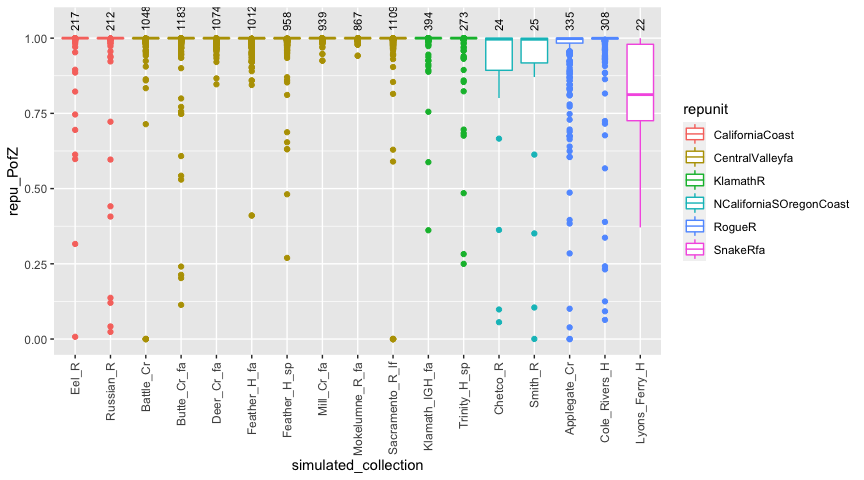
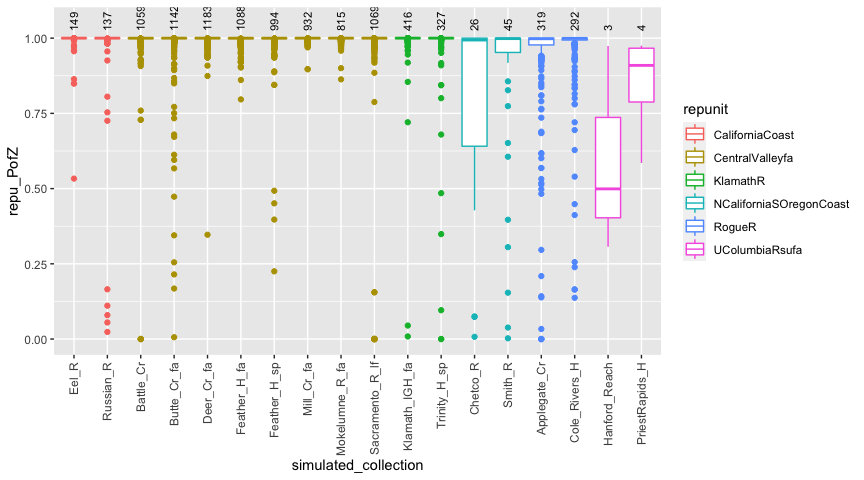
Added a CRAN badge to the README.Rmd and re-knit

diff --git a/README.md b/README.md
@@ -50,11 +50,11 @@ rubias — genetic stock identification (GSI) in the tidyverse
 
 <!-- README.md is generated from README.Rmd. Please edit that file -->
 
-<!--
-[![DOI](https://zenodo.org/badge/63456523.svg)](https://zenodo.org/badge/latestdoi/63456523)
-[![Project Status: Active – The project has reached a stable, usable state and is being actively developed.](http://www.repostatus.org/badges/latest/active.svg)](http://www.repostatus.org/#active)
-[![CRAN_Status_Badge](http://www.r-pkg.org/badges/version/rubias)](https://cran.r-project.org/package=rubias)
--->
+<!-- badges: start -->
+
+[![CRAN
+status](https://www.r-pkg.org/badges/version/rubias)](https://CRAN.R-project.org/package=rubias)
+<!-- badges: end -->
 
 This is an R package for performing genetic stock identification (GSI)
 and associated tasks. Additionally, it includes a method designed to
@@ -371,20 +371,20 @@ the default options:
 mix_est <- infer_mixture(reference = chinook, 
                          mixture = chinook_mix, 
                          gen_start_col = 5)
-#> Collating data; compiling reference allele frequencies, etc.   time: 1.66 seconds
-#> Computing reference locus specific means and variances for computing mixture z-scores   time: 0.26 seconds
+#> Collating data; compiling reference allele frequencies, etc.   time: 1.55 seconds
+#> Computing reference locus specific means and variances for computing mixture z-scores   time: 0.23 seconds
 #> Working on mixture collection: rec2 with 772 individuals
-#>   calculating log-likelihoods of the mixture individuals.   time: 0.13 seconds
-#>   performing 2000 total sweeps, 100 of which are burn-in and will not be used in computing averages in method "MCMC"   time: 0.69 seconds
-#>   tidying output into a tibble.   time: 0.26 seconds
+#>   calculating log-likelihoods of the mixture individuals.   time: 0.12 seconds
+#>   performing 2000 total sweeps, 100 of which are burn-in and will not be used in computing averages in method "MCMC"   time: 0.62 seconds
+#>   tidying output into a tibble.   time: 0.24 seconds
 #> Working on mixture collection: rec1 with 743 individuals
-#>   calculating log-likelihoods of the mixture individuals.   time: 0.11 seconds
+#>   calculating log-likelihoods of the mixture individuals.   time: 0.12 seconds
 #>   performing 2000 total sweeps, 100 of which are burn-in and will not be used in computing averages in method "MCMC"   time: 0.61 seconds
-#>   tidying output into a tibble.   time: 0.26 seconds
+#>   tidying output into a tibble.   time: 0.27 seconds
 #> Working on mixture collection: rec3 with 741 individuals
 #>   calculating log-likelihoods of the mixture individuals.   time: 0.11 seconds
-#>   performing 2000 total sweeps, 100 of which are burn-in and will not be used in computing averages in method "MCMC"   time: 0.61 seconds
-#>   tidying output into a tibble.   time: 0.33 seconds
+#>   performing 2000 total sweeps, 100 of which are burn-in and will not be used in computing averages in method "MCMC"   time: 0.60 seconds
+#>   tidying output into a tibble.   time: 0.28 seconds
 ```
 
 The result comes back as a list of four tidy data frames:
@@ -418,23 +418,23 @@ lapply(mix_est, head)
 #> # A tibble: 6 x 4
 #>   mixture_collection repunit         collection                  pi
 #>   <chr>              <chr>           <chr>                    <dbl>
-#> 1 rec2               CentralValleyfa Feather_H_sp         0.0755   
-#> 2 rec2               CentralValleysp Butte_Cr_Sp          0.0000337
-#> 3 rec2               CentralValleysp Mill_Cr_sp           0.0000301
-#> 4 rec2               CentralValleysp Deer_Cr_sp           0.0000312
-#> 5 rec2               CentralValleysp UpperSacramento_R_sp 0.000393 
+#> 1 rec2               CentralValleyfa Feather_H_sp         0.0746   
+#> 2 rec2               CentralValleysp Butte_Cr_Sp          0.0000462
+#> 3 rec2               CentralValleysp Mill_Cr_sp           0.0000480
+#> 4 rec2               CentralValleysp Deer_Cr_sp           0.0000827
+#> 5 rec2               CentralValleysp UpperSacramento_R_sp 0.000358 
 #> 6 rec2               CentralValleyfa Feather_H_fa         0.158    
 #> 
 #> $indiv_posteriors
 #> # A tibble: 6 x 10
 #>   mixture_collect… indiv repunit collection     PofZ log_likelihood z_score
 #>   <chr>            <chr> <chr>   <chr>         <dbl>          <dbl>   <dbl>
-#> 1 rec2             T124… Centra… Feather_H… 1.75e-28          -137.   -13.1
-#> 2 rec2             T124… Centra… Feather_H… 1.05e-27          -136.   -12.6
-#> 3 rec2             T124… Centra… Butte_Cr_… 1.57e-24          -130.   -10.5
-#> 4 rec2             T124… Centra… Mill_Cr_fa 1.12e-30          -135.   -11.8
-#> 5 rec2             T124… Centra… Deer_Cr_fa 1.52e-28          -134.   -11.6
-#> 6 rec2             T124… Centra… Mokelumne… 1.90e-27          -134.   -12.3
+#> 1 rec2             T124… Centra… Feather_H… 1.71e-28          -137.   -13.1
+#> 2 rec2             T124… Centra… Feather_H… 1.04e-27          -136.   -12.6
+#> 3 rec2             T124… Centra… Butte_Cr_… 1.55e-24          -130.   -10.5
+#> 4 rec2             T124… Centra… Mill_Cr_fa 1.50e-29          -135.   -11.8
+#> 5 rec2             T124… Centra… Deer_Cr_fa 2.86e-28          -134.   -11.6
+#> 6 rec2             T124… Centra… Mokelumne… 1.74e-27          -134.   -12.3
 #> # … with 3 more variables: n_non_miss_loci <int>, n_miss_loci <int>,
 #> #   missing_loci <list>
 #> 
@@ -498,23 +498,23 @@ mix_est_with_prior <- infer_mixture(reference = chinook,
                          mixture = chinook_mix, 
                          gen_start_col = 5,
                          pi_prior = prior_tibble)
-#> Collating data; compiling reference allele frequencies, etc.   time: 1.63 seconds
-#> Computing reference locus specific means and variances for computing mixture z-scores   time: 0.26 seconds
+#> Collating data; compiling reference allele frequencies, etc.   time: 1.50 seconds
+#> Computing reference locus specific means and variances for computing mixture z-scores   time: 0.23 seconds
 #> Working on mixture collection: rec2 with 772 individuals
 #> Joining, by = "collection"
 #>   calculating log-likelihoods of the mixture individuals.   time: 0.12 seconds
-#>   performing 2000 total sweeps, 100 of which are burn-in and will not be used in computing averages in method "MCMC"   time: 0.62 seconds
-#>   tidying output into a tibble.   time: 0.26 seconds
+#>   performing 2000 total sweeps, 100 of which are burn-in and will not be used in computing averages in method "MCMC"   time: 0.63 seconds
+#>   tidying output into a tibble.   time: 0.24 seconds
 #> Working on mixture collection: rec1 with 743 individuals
 #> Joining, by = "collection"
 #>   calculating log-likelihoods of the mixture individuals.   time: 0.11 seconds
-#>   performing 2000 total sweeps, 100 of which are burn-in and will not be used in computing averages in method "MCMC"   time: 0.60 seconds
-#>   tidying output into a tibble.   time: 0.28 seconds
+#>   performing 2000 total sweeps, 100 of which are burn-in and will not be used in computing averages in method "MCMC"   time: 0.62 seconds
+#>   tidying output into a tibble.   time: 0.25 seconds
 #> Working on mixture collection: rec3 with 741 individuals
 #> Joining, by = "collection"
 #>   calculating log-likelihoods of the mixture individuals.   time: 0.11 seconds
-#>   performing 2000 total sweeps, 100 of which are burn-in and will not be used in computing averages in method "MCMC"   time: 0.61 seconds
-#>   tidying output into a tibble.   time: 0.28 seconds
+#>   performing 2000 total sweeps, 100 of which are burn-in and will not be used in computing averages in method "MCMC"   time: 0.60 seconds
+#>   tidying output into a tibble.   time: 0.27 seconds
 ```
 
 and now, for fun, we can compare the results for the mixing proportions
@@ -555,8 +555,8 @@ comp_mix_ests %>%
 #> # A tibble: 2 x 3
 #>   coll_group  with_explicit_prior with_default_prior
 #>   <chr>                     <dbl>              <dbl>
-#> 1 CV_fall                   0.824              0.820
-#> 2 Not_CV_fall               0.176              0.180
+#> 1 CV_fall                   0.824              0.821
+#> 2 Not_CV_fall               0.176              0.179
 ```
 
 We see that for the most part this change to the prior changed the
@@ -640,12 +640,12 @@ top6_cis
 #> # A tibble: 6 x 3
 #>   repunit                     loCI   hiCI
 #>   <chr>                      <dbl>  <dbl>
-#> 1 CaliforniaCoast         1.86e- 2 0.0426
-#> 2 CentralValleyfa         7.91e- 1 0.847 
-#> 3 KlamathR                5.02e- 2 0.0857
-#> 4 NCaliforniaSOregonCoast 3.18e- 3 0.0184
-#> 5 RogueR                  4.40e- 2 0.0812
-#> 6 SnakeRfa                5.20e-81 0.0120
+#> 1 CaliforniaCoast         1.85e- 2 0.0439
+#> 2 CentralValleyfa         7.93e- 1 0.847 
+#> 3 KlamathR                4.90e- 2 0.0856
+#> 4 NCaliforniaSOregonCoast 3.06e- 3 0.0180
+#> 5 RogueR                  4.41e- 2 0.0808
+#> 6 UColumbiaRsufa          6.77e-20 0.0119
 ```
 
 ## Assessing whether individuals are not from any of the reference populations
@@ -719,7 +719,7 @@ collection
 
 ``` r
 no_kc <- infer_mixture(small_chinook_ref, small_chinook_mix, gen_start_col = 5)
-#> Collating data; compiling reference allele frequencies, etc.   time: 0.21 seconds
+#> Collating data; compiling reference allele frequencies, etc.   time: 0.19 seconds
 #> Computing reference locus specific means and variances for computing mixture z-scores   time: 0.02 seconds
 #> Working on mixture collection: rec3 with 29 individuals
 #>   calculating log-likelihoods of the mixture individuals.   time: 0.01 seconds
@@ -730,7 +730,7 @@ no_kc <- infer_mixture(small_chinook_ref, small_chinook_mix, gen_start_col = 5)
 #>   performing 2000 total sweeps, 100 of which are burn-in and will not be used in computing averages in method "MCMC"   time: 0.03 seconds
 #>   tidying output into a tibble.   time: 0.03 seconds
 #> Working on mixture collection: rec2 with 35 individuals
-#>   calculating log-likelihoods of the mixture individuals.   time: 0.01 seconds
+#>   calculating log-likelihoods of the mixture individuals.   time: 0.00 seconds
 #>   performing 2000 total sweeps, 100 of which are burn-in and will not be used in computing averages in method "MCMC"   time: 0.03 seconds
 #>   tidying output into a tibble.   time: 0.03 seconds
 ```
@@ -837,7 +837,7 @@ And now we can do the mixture analysis:
 ``` r
 # note that the genetic data start in column 6 now
 with_kc <- infer_mixture(kc_ref, kc_mix, 6)
-#> Collating data; compiling reference allele frequencies, etc.   time: 0.20 seconds
+#> Collating data; compiling reference allele frequencies, etc.   time: 0.19 seconds
 #> Computing reference locus specific means and variances for computing mixture z-scores   time: 0.02 seconds
 #> Working on mixture collection: rec3 with 29 individuals
 #>   calculating log-likelihoods of the mixture individuals.   time: 0.01 seconds
@@ -1113,22 +1113,22 @@ top6
 #> # Groups:   mixture_collection [1]
 #>   mixture_collection repunit                 repprop
 #>   <chr>              <chr>                     <dbl>
-#> 1 rec1               CentralValleyfa         0.820  
-#> 2 rec1               KlamathR                0.0671 
-#> 3 rec1               RogueR                  0.0615 
-#> 4 rec1               CaliforniaCoast         0.0298 
-#> 5 rec1               NCaliforniaSOregonCoast 0.00925
-#> 6 rec1               SnakeRfa                0.00365
+#> 1 rec1               CentralValleyfa         0.821  
+#> 2 rec1               KlamathR                0.0666 
+#> 3 rec1               RogueR                  0.0614 
+#> 4 rec1               CaliforniaCoast         0.0299 
+#> 5 rec1               NCaliforniaSOregonCoast 0.00917
+#> 6 rec1               UColumbiaRsufa          0.00374
 ```
 
 We could, if we put those `repprop` values into a `ppn` column, simulate
 mixtures with exactly those proportions. Or if we wanted to simulate
-exact numbers of fish in a sample of 347 fish, we could get those values
+exact numbers of fish in a sample of 345 fish, we could get those values
 like this:
 
 ``` r
 round(top6$repprop * 350)
-#> [1] 287  24  22  10   3   1
+#> [1] 287  23  21  10   3   1
 ```
 
 and then put them in a `cnts` column.
@@ -1156,12 +1156,12 @@ arep
 #> # A tibble: 6 x 2
 #>   repunit                 dirichlet
 #>   <chr>                       <dbl>
-#> 1 CentralValleyfa            8.20  
-#> 2 KlamathR                   0.671 
-#> 3 RogueR                     0.615 
-#> 4 CaliforniaCoast            0.298 
-#> 5 NCaliforniaSOregonCoast    0.0925
-#> 6 SnakeRfa                   0.0365
+#> 1 CentralValleyfa            8.21  
+#> 2 KlamathR                   0.666 
+#> 3 RogueR                     0.614 
+#> 4 CaliforniaCoast            0.299 
+#> 5 NCaliforniaSOregonCoast    0.0917
+#> 6 UColumbiaRsufa             0.0374
 ```
 
 Let’s do some simulations with those repunit parameters. By default, if
@@ -1387,12 +1387,12 @@ arep
 #> # A tibble: 6 x 2
 #>   repunit                 dirichlet
 #>   <chr>                       <dbl>
-#> 1 CentralValleyfa            8.20  
-#> 2 KlamathR                   0.671 
-#> 3 RogueR                     0.615 
-#> 4 CaliforniaCoast            0.298 
-#> 5 NCaliforniaSOregonCoast    0.0925
-#> 6 SnakeRfa                   0.0365
+#> 1 CentralValleyfa            8.21  
+#> 2 KlamathR                   0.666 
+#> 3 RogueR                     0.614 
+#> 4 CaliforniaCoast            0.299 
+#> 5 NCaliforniaSOregonCoast    0.0917
+#> 6 UColumbiaRsufa             0.0374
 ```
 
 But, now, let’s say that within reporting unit we want specific weights
@@ -1443,27 +1443,30 @@ chin_sims_sub_ppn %>%
   mutate(fract_within = ifelse(fract_within < 1e-06, 0, fract_within))  %>% # anything less than 1 in a million gets called 0
   filter(repunit_mean_pi > 0.0)
 #> `summarise()` regrouping output by 'repunit' (override with `.groups` argument)
-#> # A tibble: 17 x 5
+#> # A tibble: 20 x 5
 #> # Groups:   repunit [6]
 #>    repunit               collection         mean_pi repunit_mean_pi fract_within
 #>    <chr>                 <chr>                <dbl>           <dbl>        <dbl>
-#>  1 CaliforniaCoast       Eel_R              3.51e-3          0.0351        0.10 
-#>  2 CaliforniaCoast       Russian_R          3.16e-2          0.0351        0.900
-#>  3 CentralValleyfa       Battle_Cr          8.27e-8          0.827         0    
-#>  4 CentralValleyfa       Butte_Cr_fa        5.79e-1          0.827         0.700
-#>  5 CentralValleyfa       Deer_Cr_fa         8.27e-8          0.827         0    
-#>  6 CentralValleyfa       Feather_H_fa       8.27e-8          0.827         0    
-#>  7 CentralValleyfa       Feather_H_sp       2.48e-1          0.827         0.300
-#>  8 CentralValleyfa       Mill_Cr_fa         8.27e-8          0.827         0    
-#>  9 CentralValleyfa       Mokelumne_R_fa     8.27e-8          0.827         0    
-#> 10 CentralValleyfa       Sacramento_R_…     8.27e-8          0.827         0    
-#> 11 KlamathR              Klamath_IGH_fa     3.09e-2          0.0618        0.5  
-#> 12 KlamathR              Trinity_H_sp       3.09e-2          0.0618        0.5  
-#> 13 NCaliforniaSOregonCo… Chetco_R           5.49e-3          0.0110        0.5  
-#> 14 NCaliforniaSOregonCo… Smith_R            5.49e-3          0.0110        0.5  
-#> 15 RogueR                Applegate_Cr       2.74e-2          0.0548        0.5  
-#> 16 RogueR                Cole_Rivers_H      2.74e-2          0.0548        0.5  
-#> 17 SnakeRfa              Lyons_Ferry_H      1.03e-2          0.0103        1
+#>  1 CaliforniaCoast       Eel_R              3.54e-3          0.0354        0.1  
+#>  2 CaliforniaCoast       Russian_R          3.19e-2          0.0354        0.9  
+#>  3 CentralValleyfa       Battle_Cr          8.28e-8          0.828         0    
+#>  4 CentralValleyfa       Butte_Cr_fa        5.80e-1          0.828         0.700
+#>  5 CentralValleyfa       Deer_Cr_fa         8.28e-8          0.828         0    
+#>  6 CentralValleyfa       Feather_H_fa       8.28e-8          0.828         0    
+#>  7 CentralValleyfa       Feather_H_sp       2.48e-1          0.828         0.300
+#>  8 CentralValleyfa       Mill_Cr_fa         8.28e-8          0.828         0    
+#>  9 CentralValleyfa       Mokelumne_R_fa     8.28e-8          0.828         0    
+#> 10 CentralValleyfa       Sacramento_R_…     8.28e-8          0.828         0    
+#> 11 KlamathR              Klamath_IGH_fa     3.02e-2          0.0604        0.5  
+#> 12 KlamathR              Trinity_H_sp       3.02e-2          0.0604        0.5  
+#> 13 NCaliforniaSOregonCo… Chetco_R           5.42e-3          0.0108        0.5  
+#> 14 NCaliforniaSOregonCo… Smith_R            5.42e-3          0.0108        0.5  
+#> 15 RogueR                Applegate_Cr       2.73e-2          0.0547        0.5  
+#> 16 RogueR                Cole_Rivers_H      2.73e-2          0.0547        0.5  
+#> 17 UColumbiaRsufa        Hanford_Reach      2.62e-3          0.0105        0.25 
+#> 18 UColumbiaRsufa        PriestRapids_H     2.62e-3          0.0105        0.25 
+#> 19 UColumbiaRsufa        Wells_H            2.62e-3          0.0105        0.25 
+#> 20 UColumbiaRsufa        Wenatchee_R        2.62e-3          0.0105        0.25
 ```
 
 ## Multiple simulation scenarios and “100% Simulations”
@@ -1487,7 +1490,7 @@ each of the repunits in `arep`:
 arep$repunit
 #> [1] "CentralValleyfa"         "KlamathR"               
 #> [3] "RogueR"                  "CaliforniaCoast"        
-#> [5] "NCaliforniaSOregonCoast" "SnakeRfa"
+#> [5] "NCaliforniaSOregonCoast" "UColumbiaRsufa"
 ```
 
 We will let the collections within them just be drawn from a dirichlet
@@ -1540,7 +1543,7 @@ repu_hundy_results <- assess_reference_loo(reference = chinook,
 #> Doing LOO simulations rep 3 of 5
 #> Doing LOO simulations rep 4 of 5
 #> Doing LOO simulations rep 5 of 5
-#> ++++ Starting in on repunit_scenario All-SnakeRfa with collection scenario 1 ++++
+#> ++++ Starting in on repunit_scenario All-UColumbiaRsufa with collection scenario 1 ++++
 #> Doing LOO simulations rep 1 of 5
 #> Doing LOO simulations rep 2 of 5
 #> Doing LOO simulations rep 3 of 5
